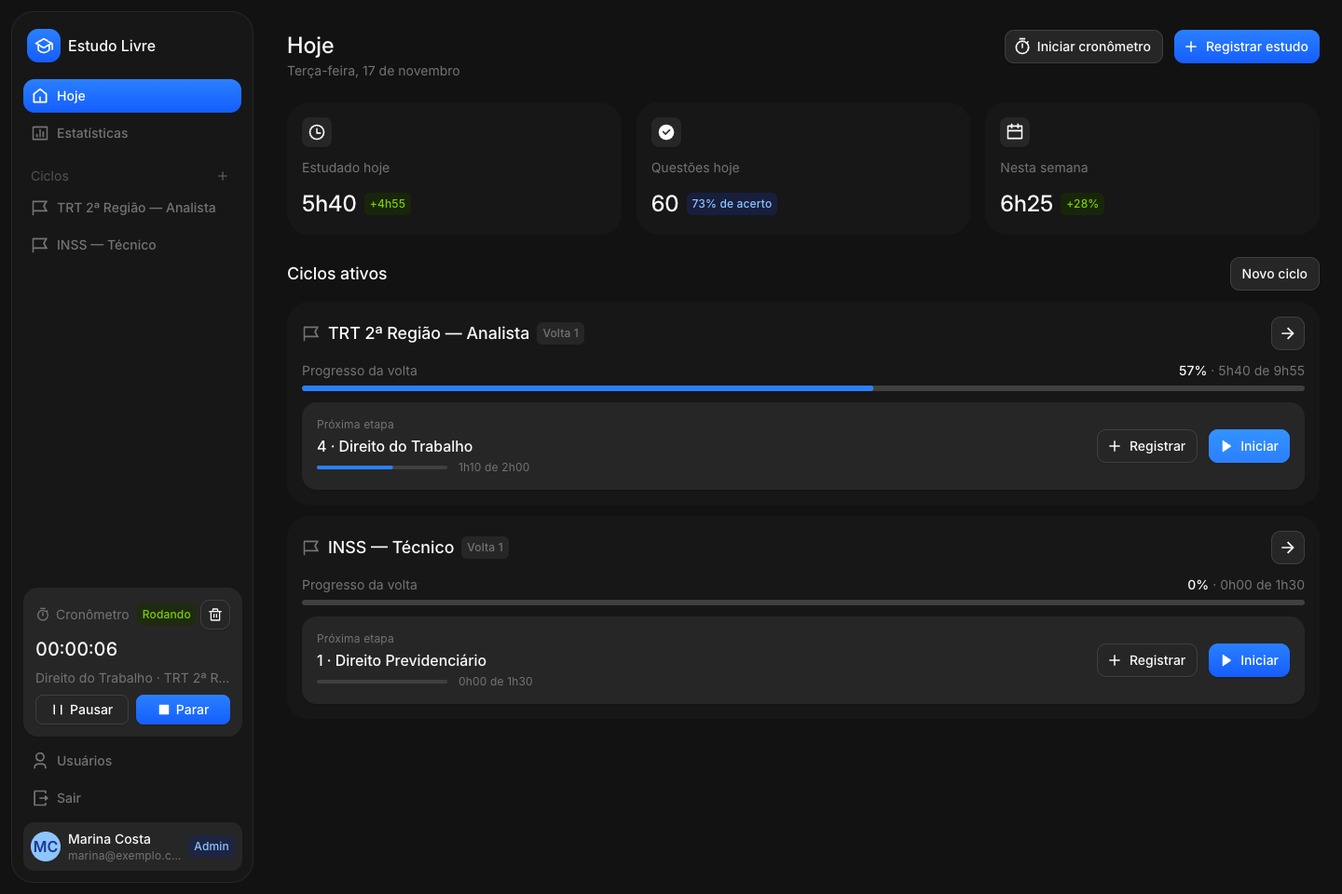
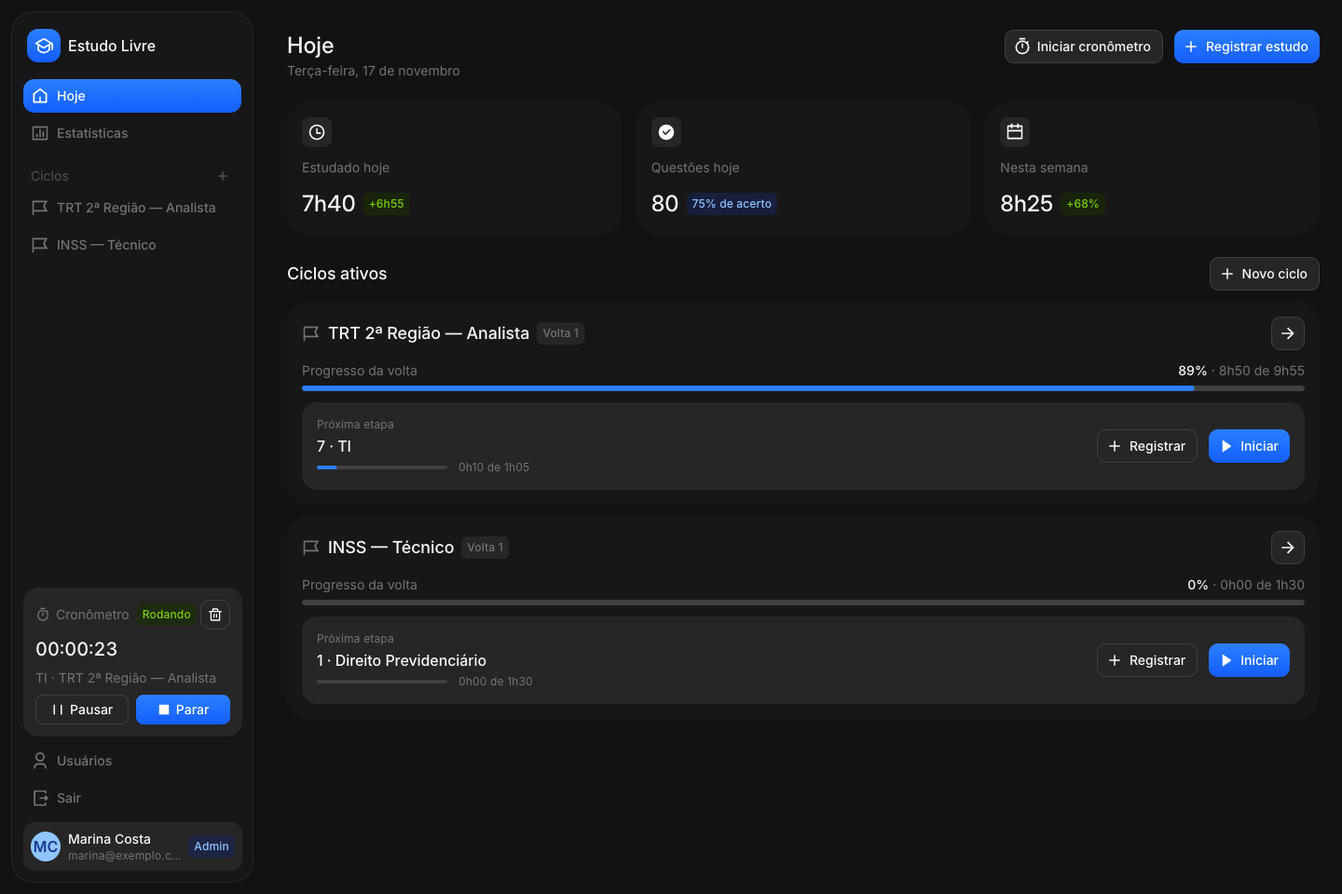
fix(interface): arredondamento simétrico, progresso do Ciclo no caso de uso e ajustes das telas

diff --git a/src/casos-de-uso/ciclos.ts b/src/casos-de-uso/ciclos.ts
@@ -1,6 +1,7 @@
 import { and, asc, eq, isNull, max, sql } from "drizzle-orm";
 import type { Db, Tx } from "@/db";
 import { ciclo, etapa, materia, registroDeEstudo, volta } from "@/db/schema";
+import { concluida } from "@/dominio";
 import { progressoDosCiclos, type Executor, type MateriaComProgresso } from "./progresso";
 import { NaoEncontradoError, ValidacaoError } from "./erros";
 import type { Usuario } from "./usuario";
@@ -21,6 +22,10 @@ export type CicloDetalhe = {
   feitoMinutos: number;
   /** Horas extras da Volta atual, somadas de todas as Matérias. */
   extraMinutos: number;
+  /** Fração da carga cumprida na Volta atual, de 0 a 100. */
+  percentual: number;
+  /** A Próxima etapa: a primeira, na ordem do ciclo, que ainda não chegou a 100%. */
+  proximaEtapaId: string | null;
 };
 
 const CARGA_MAXIMA_MINUTOS = 10_000 * 60;
@@ -109,15 +114,19 @@ export async function obterCiclo(db: Db, usuario: Usuario, cicloId: string): Pro
       const posicaoDe = new Map(posicoes.map((e) => [e.id, e.posicao]));
       const progresso = (await progressoDosCiclos(tx, eq(ciclo.id, cicloId))).get(cicloId) ?? { etapas: [], materias: [] };
       const [aberta] = await tx.select({ numero: volta.numero, inicio: volta.inicio }).from(volta).where(and(eq(volta.cicloId, cicloId), isNull(volta.fim)));
+      const carga = progresso.etapas.reduce((soma, e) => soma + e.cargaMinutos, 0);
+      const feito = progresso.etapas.reduce((soma, e) => soma + e.feitoMinutos, 0);
       return {
         id,
         nome,
         etapas: progresso.etapas.map((e) => ({ ...e, posicao: posicaoDe.get(e.id)! })),
         materias: progresso.materias,
         volta: aberta,
-        cargaMinutos: progresso.etapas.reduce((soma, e) => soma + e.cargaMinutos, 0),
-        feitoMinutos: progresso.etapas.reduce((soma, e) => soma + e.feitoMinutos, 0),
+        cargaMinutos: carga,
+        feitoMinutos: feito,
         extraMinutos: progresso.materias.reduce((soma, m) => soma + m.extraMinutos, 0),
+        percentual: carga ? Math.round((feito / carga) * 100) : 0,
+        proximaEtapaId: progresso.etapas.find((e) => !concluida(e))?.id ?? null,
       };
     },
     { isolationLevel: "repeatable read", accessMode: "read only" },

diff --git a/src/app/(app)/ciclos/[id]/page.tsx b/src/app/(app)/ciclos/[id]/page.tsx
@@ -18,10 +18,9 @@ export default async function PaginaCiclo({ params }: { params: Promise<{ id: st
     throw erro;
   });
   const { etapas, materias, volta } = ciclo;
-  const percentual = ciclo.cargaMinutos ? Math.round((ciclo.feitoMinutos / ciclo.cargaMinutos) * 100) : 0;
+  const { percentual } = ciclo;
   const extraDaMateria = new Map(materias.map((m) => [m.id, m.extraMinutos]));
   const itens = etapas.map((e) => ({ id: e.id, nome: e.nome, cargaMinutos: e.cargaMinutos, feitoMinutos: e.feitoMinutos, extraMinutos: extraDaMateria.get(e.materiaId) ?? 0 }));
-  const proxima = etapas.find((e) => !concluida(e));
 
   return (
     <section aria-labelledby="h-ciclo" className="grid gap-5">
@@ -65,7 +64,7 @@ export default async function PaginaCiclo({ params }: { params: Promise<{ id: st
       </div>
 
       <div className="grid items-start gap-5 lg:grid-cols-[minmax(0,1fr)_320px]">
-        <ListaEtapas cicloId={id} etapas={itens} proximaId={proxima?.id} />
+        <ListaEtapas cicloId={id} etapas={itens} proximaId={ciclo.proximaEtapaId ?? undefined} />
         {materias.length > 0 && (
           <aside aria-label="Matérias" className="grid gap-3 rounded-3xl bg-background-secondary-default p-4">
             <h2 className="text-title-3-medium text-text-primary">Matérias</h2>
@@ -75,7 +74,7 @@ export default async function PaginaCiclo({ params }: { params: Promise<{ id: st
                   <div className="grid">
                     <span className="text-body-medium text-text-primary">{m.nome}</span>
                     <span className="text-caption-1-regular text-text-secondary">
-                      {quantidade(etapas.filter((e) => e.materiaId === m.id).length, "etapa", "etapas")} · {tempoHM(m.cargaMinutos)}
+                      {quantidade(m.etapas, "etapa", "etapas")} · {tempoHM(m.cargaMinutos)}
                     </span>
                   </div>
                   <ProgressTrack percentage={(m.feitoMinutos / m.cargaMinutos) * 100} size="sm" className={concluida(m) ? "text-chart-2" : "text-accent-500"} />

diff --git a/src/casos-de-uso/progresso.ts b/src/casos-de-uso/progresso.ts
@@ -8,7 +8,7 @@ export type Executor = Db | Tx;
 export type EtapaComProgresso = { id: string; materiaId: string; nome: string; cargaMinutos: number; feitoMinutos: number };
 
 /** A Matéria soma as Etapas dela; `extraMinutos` é o que passou da carga total na Volta atual. */
-export type MateriaComProgresso = { id: string; nome: string; cargaMinutos: number; feitoMinutos: number; extraMinutos: number };
+export type MateriaComProgresso = { id: string; nome: string; cargaMinutos: number; feitoMinutos: number; extraMinutos: number; etapas: number };
 
 export type ProgressoDoCiclo = { etapas: EtapaComProgresso[]; materias: MateriaComProgresso[] };
 
@@ -51,7 +51,8 @@ export async function progressoDosCiclos(db: Executor, filtro: SQL | undefined):
     );
     const materias = new Map<string, MateriaComProgresso>();
     for (const e of preenchidas) {
-      const atual = materias.get(e.materiaId) ?? { id: e.materiaId, nome: e.nome, cargaMinutos: 0, feitoMinutos: 0, extraMinutos: extraPorMateria.get(e.materiaId) ?? 0 };
+      const atual = materias.get(e.materiaId) ?? { id: e.materiaId, nome: e.nome, cargaMinutos: 0, feitoMinutos: 0, extraMinutos: extraPorMateria.get(e.materiaId) ?? 0, etapas: 0 };
+      atual.etapas += 1;
       atual.cargaMinutos += e.cargaMinutos;
       atual.feitoMinutos += e.feitoMinutos;
       materias.set(e.materiaId, atual);

diff --git a/src/app/(app)/page.tsx b/src/app/(app)/page.tsx
@@ -1,4 +1,4 @@
-import { RiCalendarLine, RiCheckboxCircleFill, RiTimeLine } from "@remixicon/react";
+import { RiAddLine, RiCalendarLine, RiCheckboxCircleFill, RiTimeLine } from "@remixicon/react";
 import { AcoesDaHoje } from "@/app/acoes-da-hoje";
 import { CartaoDeIndicador } from "@/app/cartao-de-indicador";
 import { CartaoDoCiclo } from "@/app/cartao-do-ciclo";
@@ -77,7 +77,7 @@ export default async function Hoje() {
                 <span className="max-lg:hidden">Ciclos ativos</span>
               </h2>
               <span className="text-body-regular text-text-secondary lg:hidden">{ciclos.length === 1 ? "1 ciclo" : `${ciclos.length} ciclos`}</span>
-              <ButtonLink href="/ciclos/novo" variant="secondary" className="max-lg:hidden">
+              <ButtonLink href="/ciclos/novo" variant="secondary" leadingIcon={RiAddLine} className="max-lg:hidden">
                 Novo ciclo
               </ButtonLink>
             </div>

diff --git a/src/dominio.ts b/src/dominio.ts
@@ -39,9 +39,11 @@ export function preencherEtapas<E extends { materiaId: string; cargaMinutos: num
   return { etapas: preenchidas, extraPorMateria: restante };
 }
 
-/** Variação percentual arredondada contra o período anterior; sem período anterior (0) não há variação. */
+/** Variação percentual arredondada (meio ponto se afasta do zero) contra o período anterior; sem período anterior (0) não há variação. */
 export function variacaoPercentual(atual: number, anterior: number): number | null {
-  return anterior > 0 ? Math.round(((atual - anterior) / anterior) * 100) : null;
+  if (anterior <= 0) return null;
+  const percentual = ((atual - anterior) / anterior) * 100;
+  return Math.sign(percentual) * Math.round(Math.abs(percentual)); // meio ponto se afasta do zero nos dois sinais
 }
 
 /** Acerto arredondado de 0 a 100; sem questões não há acerto. */

diff --git a/tests/volta-do-ciclo.test.ts b/tests/volta-do-ciclo.test.ts
@@ -23,6 +23,9 @@ describe("progresso na tela do Ciclo", () => {
     expect(ciclo.volta).toEqual({ numero: 1, inicio: null });
     expect([ciclo.cargaMinutos, ciclo.feitoMinutos, ciclo.extraMinutos]).toEqual([240, 90, 0]);
     expect(ciclo.materias.map((m) => [m.nome, m.cargaMinutos, m.feitoMinutos])).toEqual([["Português", 120, 90], ["Direito", 120, 0]]);
+    expect(ciclo.materias.map((m) => [m.nome, m.etapas])).toEqual([["Português", 2], ["Direito", 1]]);
+    expect([ciclo.etapas.length, ciclo.materias.length, ciclo.cargaMinutos - ciclo.feitoMinutos, ciclo.percentual]).toEqual([3, 2, 150, 38]); // 90/240 = 37,5%
+    expect(ciclo.proximaEtapaId).toBe(ciclo.etapas[1].id); // Português 1 está a 100%, Direito é a primeira incompleta
   });
 
   it("depois de fechar a Volta, mostra a Volta 2 com o instante em que abriu e soma as horas extras", async () => {

diff --git a/src/app/formulario-de-registro.tsx b/src/app/formulario-de-registro.tsx
@@ -124,7 +124,7 @@ function Formulario({
           <span className="text-body-medium text-text-primary" id="rotulo-tipo">
             Tipo de estudo
           </span>
-          <SegmentedControl aria-labelledby="rotulo-tipo" selectedKeys={[tipo]} onSelectionChange={(chaves) => setTipo([...chaves][0] as TipoDeEstudo)} className="max-w-full overflow-x-auto">
+          <SegmentedControl aria-labelledby="rotulo-tipo" selectedKeys={[tipo]} onSelectionChange={(chaves) => setTipo([...chaves][0] as TipoDeEstudo)} className="w-full [&>*]:flex-1">
             {TIPOS_DE_ESTUDO.map((t) => (
               <SegmentedControlItem key={t} id={t}>
                 {t}

diff --git a/tests/estatisticas.test.ts b/tests/estatisticas.test.ts
@@ -63,6 +63,8 @@ describe("estatísticas", () => {
     // 23 acertos em 40 questões = 57,5%, arredondado para 58%. Matérias sem questões ficam de fora.
     expect(acertoPorMateria.map((m) => [m.nome, m.questoes, m.acertos, m.percentual])).toEqual([["Português", 40, 23, 58]]);
     expect(totalQuestoes).toBe(40);
+    // A Matéria sem questões continua em "Horas por matéria".
+    expect((await obterEstatisticas(db, ana)).horasPorMateria.map((m) => m.nome)).toContain("Direito");
   });
 
   describe("horas por semana", () => {

diff --git a/src/app/formato.ts b/src/app/formato.ts
@@ -21,10 +21,10 @@ export function quantidade(n: number, singular: string, plural: string) {
   return `${n} ${n === 1 ? singular : plural}`;
 }
 
-/** "2026-09-28" -> "28/9", como no rótulo das semanas. */
+/** "2026-09-28" -> "28/09", como no rótulo das semanas. */
 export function diaMes(dia: string) {
   const [, mes, diaDoMes] = dia.split("-");
-  return `${Number(diaDoMes)}/${Number(mes)}`;
+  return `${diaDoMes}/${mes}`;
 }
 
 /** "+12%" ou "−50%" (sinal de menos tipográfico). */

diff --git a/tests/formato.test.ts b/tests/formato.test.ts
@@ -8,6 +8,9 @@ describe("variação e acerto", () => {
     expect(variacaoPercentual(300, 600)).toBe(-50);
     expect(variacaoPercentual(0, 120)).toBe(-100);
     expect(variacaoPercentual(120, 0)).toBeNull();
+    // meio ponto se afasta do zero nos dois sinais
+    expect(variacaoPercentual(90, 80)).toBe(13);
+    expect(variacaoPercentual(70, 80)).toBe(-13);
   });
 
   it("acerto arredondado; sem questões, nenhum", () => {

diff --git a/.specs/features/interface-boardui/verification.md b/.specs/features/interface-boardui/verification.md
@@ -1,0 +1,79 @@
+# Interface no BoardUI verification
+
+**Verdict**: FAIL
+**Proofs**: `proofs.md` at 30a75ec (HEAD is 85ec926; 53 pass, 7 fail = the 7 browser proofs C7 C15 C16 C25 C36 C42 C48 "not judged", awaiting the screens sub-agent)
+**Verifier**: independent sub-agent (author != verifier)
+
+## Checks
+
+| Check | Test | Holds |
+| --- | --- | --- |
+| C1 | `! grep` on src/app + src/casos-de-uso (grep proof) | partial - grep catches old token/class use in those two dirs only (src/components, src/styles not scanned; my wider grep of `src` was clean) and does not check Inter at all; layout.tsx loads Inter, nothing asserts it renders |
+| C2 | walk proof (no test) - walk proof: only needs the single `**Walked:**` line in checks.md, so it would NOT catch a false claim | no mechanical test - unproven by a mechanical test; judge only by the walk |
+| C3 | walk proof (no test) - walk proof: only needs the single `**Walked:**` line in checks.md, so it would NOT catch a false claim | no mechanical test - unproven mechanically; the inline `<head>` script is a view-source claim a walk cannot falsify |
+| C4 | walk proof (no test) - walk proof: only needs the single `**Walked:**` line in checks.md, so it would NOT catch a false claim | no mechanical test - unproven mechanically |
+| C5 | walk proof (no test) - walk proof: only needs the single `**Walked:**` line in checks.md, so it would NOT catch a false claim | no mechanical test - unproven mechanically |
+| C6 | walk proof (no test) - walk proof: only needs the single `**Walked:**` line in checks.md, so it would NOT catch a false claim | no mechanical test - unproven mechanically |
+| C7 | browser proof - browser proof: a picture saved and judged by the screens sub-agent (`screens.md`, not yet judged at proofs HEAD); would catch a visual false claim only once judged | no mechanical test - deferred to screens |
+| C8 | walk proof (no test) - walk proof: only needs the single `**Walked:**` line in checks.md, so it would NOT catch a false claim | no mechanical test - unproven mechanically |
+| C9 | walk proof (no test) - walk proof: only needs the single `**Walked:**` line in checks.md, so it would NOT catch a false claim | no mechanical test - unproven mechanically |
+| C10 | walk proof (no test) - walk proof: only needs the single `**Walked:**` line in checks.md, so it would NOT catch a false claim | no mechanical test - unproven mechanically |
+| C11 | walk proof (no test) - walk proof: only needs the single `**Walked:**` line in checks.md, so it would NOT catch a false claim | no mechanical test - unproven mechanically |
+| C12 | walk proof (no test) - walk proof: only needs the single `**Walked:**` line in checks.md, so it would NOT catch a false claim | no mechanical test - unproven mechanically |
+| C13 | walk proof (no test) - walk proof: only needs the single `**Walked:**` line in checks.md, so it would NOT catch a false claim | no mechanical test - unproven mechanically |
+| C14 | walk proof (no test) - walk proof: only needs the single `**Walked:**` line in checks.md, so it would NOT catch a false claim | no mechanical test - unproven mechanically |
+| C15 | browser proof - browser proof: a picture saved and judged by the screens sub-agent (`screens.md`, not yet judged at proofs HEAD); would catch a visual false claim only once judged | no mechanical test - deferred to screens |
+| C16 | browser proof - browser proof: a picture saved and judged by the screens sub-agent (`screens.md`, not yet judged at proofs HEAD); would catch a visual false claim only once judged | no mechanical test - deferred to screens |
+| C17 | `tests/indicadores.test.ts` `Estudado hoje soma o dia em Brasília e dá a diferença contra ontem`, `um registro das 23h50 de ontem em Brasília não conta hoje`, `soma todos os Ciclos...` (+ `tests/formato.test.ts` `rótulos de chip`) | yes - asserts 70/+25, the 23h50 boundary, zero/null; my 00:10-today, negative diff (-25) and sum cases also held |
+| C18 | `tests/indicadores.test.ts` `Questões hoje soma as questões e arredonda o acerto` (+ zero case in `soma todos os Ciclos...`) | yes - 20/16 -> 80, 3/2 -> 67, zero -> 0/null; my 10/8+30/15 -> 58 and 5/0 -> 0 held. The string `<n>% de acerto` is built in page.tsx and untested |
+| C19 | `tests/indicadores.test.ts` `Nesta semana compara com a semana anterior inteira...`, `Nesta semana cai 50%...` | yes - Sunday boundary, two-weeks-back excluded, +12, -50, null; my Monday-00:00 inclusion (-20) held. Half-point rounding unprobed (see finding 1) |
+| C20 | walk proof (no test) - walk proof: only needs the single `**Walked:**` line in checks.md, so it would NOT catch a false claim | no mechanical test - unproven mechanically |
+| C21 | walk proof (no test) - walk proof: only needs the single `**Walked:**` line in checks.md, so it would NOT catch a false claim | no mechanical test - unproven mechanically |
+| C22 | walk proof (no test) - walk proof: only needs the single `**Walked:**` line in checks.md, so it would NOT catch a false claim | no mechanical test - unproven mechanically |
+| C23 | walk proof (no test) - walk proof: only needs the single `**Walked:**` line in checks.md, so it would NOT catch a false claim | no mechanical test - unproven mechanically |
+| C24 | walk proof (no test) - walk proof: only needs the single `**Walked:**` line in checks.md, so it would NOT catch a false claim | no mechanical test - unproven mechanically |
+| C25 | browser proof - browser proof: a picture saved and judged by the screens sub-agent (`screens.md`, not yet judged at proofs HEAD); would catch a visual false claim only once judged | no mechanical test - deferred to screens |
+| C26 | `tests/volta-do-ciclo.test.ts` `cada Etapa traz o feito...`, `depois de fechar a Volta...`; `tests/formato.test.ts` `Volta 3 aberta em 2/11...` | partial - Volta line and extraMinutos are asserted; the header string "<n> etapas · <m> matérias · <carga>", "Faltam <tempo>" and the percent are built in `ciclos/[id]/page.tsx` with no test |
+| C27 | `tests/formato.test.ts` `uma Situação por Etapa` | partial - all five Situações asserted on the function; which Etapa is the Próxima (`!concluida`, page.tsx) and the highlight are untested. My 59/60 -> Em andamento (Próxima etapa when proxima) and 61/60 -> Concluída held |
+| C28 | walk proof (no test) - walk proof: only needs the single `**Walked:**` line in checks.md, so it would NOT catch a false claim | no mechanical test - unproven mechanically |
+| C29 | walk proof (no test) - walk proof: only needs the single `**Walked:**` line in checks.md, so it would NOT catch a false claim | no mechanical test - unproven mechanically |
+| C30 | walk proof (no test) - walk proof: only needs the single `**Walked:**` line in checks.md, so it would NOT catch a false claim | no mechanical test - unproven mechanically |
+| C31 | walk proof (no test) - walk proof: only needs the single `**Walked:**` line in checks.md, so it would NOT catch a false claim | no mechanical test - unproven mechanically |
+| C32 | `tests/volta-do-ciclo.test.ts` `cada Etapa traz o feito...` | no - asserts each Matéria's carga and feito only; "<n> etapa(s)" is computed in the UI and the < 1024px reorder is CSS, neither asserted |
+| C33 | walk proof (no test) - walk proof: only needs the single `**Walked:**` line in checks.md, so it would NOT catch a false claim | no mechanical test - unproven mechanically |
+| C34 | `tests/ciclos.test.ts` `um Usuário não vê nem altera Ciclos e Etapas de outro` | partial - asserts NaoEncontradoError from the use case; the `notFound()` mapping in page.tsx is untested (code reads correct) |
+| C35 | walk proof (no test) - walk proof: only needs the single `**Walked:**` line in checks.md, so it would NOT catch a false claim | no mechanical test - unproven mechanically |
+| C36 | browser proof - browser proof: a picture saved and judged by the screens sub-agent (`screens.md`, not yet judged at proofs HEAD); would catch a visual false claim only once judged | no mechanical test - deferred to screens |
+| C37 | walk proof (no test) - walk proof: only needs the single `**Walked:**` line in checks.md, so it would NOT catch a false claim | no mechanical test - unproven mechanically |
+| C38 | walk proof (no test) - walk proof: only needs the single `**Walked:**` line in checks.md, so it would NOT catch a false claim | no mechanical test - unproven mechanically; the 80% / dash rule is client code with no unit test (`percentualDeAcerto` is tested in `formato.test.ts` but the proof does not name it) |
+| C39 | walk proof (no test) - walk proof: only needs the single `**Walked:**` line in checks.md, so it would NOT catch a false claim | no mechanical test - unproven mechanically |
+| C40 | walk proof (no test) - walk proof: only needs the single `**Walked:**` line in checks.md, so it would NOT catch a false claim | no mechanical test - unproven mechanically |
+| C41 | walk proof (no test) - walk proof: only needs the single `**Walked:**` line in checks.md, so it would NOT catch a false claim | no mechanical test - unproven mechanically |
+| C42 | browser proof - browser proof: a picture saved and judged by the screens sub-agent (`screens.md`, not yet judged at proofs HEAD); would catch a visual false claim only once judged | no mechanical test - deferred to screens |
+| C43 | walk proof (no test) - walk proof: only needs the single `**Walked:**` line in checks.md, so it would NOT catch a false claim | no mechanical test - unproven mechanically; existing `tests/estatisticas.test.ts` filter test covers the data side but is not the named proof |
+| C44 | `tests/estatisticas.test.ts` `variação semanal > compara a semana atual com a anterior` and `semana atual zerada cai 100%...`; `tests/formato.test.ts` `variação arredondada...` | yes - +12, -100, null asserted; my Ciclo-filtered and Monday-boundary cases (-20) held. Half-point rounding unprobed (finding 1) |
+| C45 | walk proof (no test) - walk proof: only needs the single `**Walked:**` line in checks.md, so it would NOT catch a false claim | no mechanical test - unproven mechanically |
+| C46 | `tests/estatisticas.test.ts` `calcula o % de acerto por Matéria só com os registros que têm questões` | partial - asserts Direito (no questões) is absent from acertoPorMateria; its presence in horasPorMateria is asserted by other tests, not this one |
+| C47 | walk proof (no test) - walk proof: only needs the single `**Walked:**` line in checks.md, so it would NOT catch a false claim | no mechanical test - unproven mechanically |
+| C48 | browser proof - browser proof: a picture saved and judged by the screens sub-agent (`screens.md`, not yet judged at proofs HEAD); would catch a visual false claim only once judged | no mechanical test - deferred to screens |
+| C49 | walk proof (no test) - walk proof: only needs the single `**Walked:**` line in checks.md, so it would NOT catch a false claim | no mechanical test - unproven mechanically |
+| C50 | walk proof (no test) - walk proof: only needs the single `**Walked:**` line in checks.md, so it would NOT catch a false claim | no mechanical test - unproven mechanically |
+| C51 | walk proof (no test) - walk proof: only needs the single `**Walked:**` line in checks.md, so it would NOT catch a false claim | no mechanical test - unproven mechanically |
+| C52 | `test ! -e prototype` (shell proof) | yes - fails if the directory exists |
+| C53 | `! grep -Ei "geist|disco do ciclo" docs/design-system.md` (grep proof) | partial - catches the two banned words only; the required content (tokens with both modes, type scale, components, 1024px) is not checked, so an empty doc would pass |
+| C54 | `grep -q ig7Pq2uPxPWjeWuCKmTuBW AGENTS.md && grep -q "Figma vence" AGENTS.md` (grep proof) | yes - both literals required; stale-rule leftovers (old prototype pointer) not checked |
+
+## Findings
+
+| Finding | Evidence | Fix | Closed |
+| --- | --- | --- | --- |
+| Half-point variation rounds asymmetrically: 70 vs 80 min gives "−12%" (−12.5) while +12.5 would give "+13%"; no test sits on a .5 | own throwaway test at HEAD: `variacaoPercentual(70,80)` -> -12; `Math.round` in `src/dominio.ts` rounds toward +inf. Affects AC19 and AC44 (Hoje and Estatísticas) | decide the rule (round half away from zero) and add a test on a .5 in both signs; or log -12 as intended | |
+| C32's test does not hold its criterion: asserts carga/feito only | `tests/volta-do-ciclo.test.ts` first test; "<n> etapa(s)" counted in the UI, reorder is CSS | add the etapa count per Matéria to the use case and assert it, or give C32 a walk/browser proof | |
+| C26 header, "Faltam" and percent strings are built in the page and no proof reaches them | `src/app/(app)/ciclos/[id]/page.tsx`; C26's proofs only name Volta line and `cada Etapa traz o feito` | move the header/faltam/percent formatting into `formato.ts` and test it, or add a walk | |
+| C27: the Próxima etapa choice and highlight are untested | `situacaoDaEtapa` takes `proxima` as given; page.tsx computes it with `etapas.find(e => !concluida(e))` | cover it in a unit or walk that checks the highlighted row | |
+| C1 proof does not check Inter and scans only src/app + src/casos-de-uso | grep in checks.md; `src/components` and `src/styles` unscanned (my wider grep was clean) | grep `src` and add a check that layout sets the Inter variable on body | |
+| C53 grep passes an empty or incomplete design doc | only bans "geist" and "disco do ciclo" | add greps for the Claro suave hex `#ebebe8`, `1024px`, Sidebar, StatCard, EtapaRow | |
+| C38 walk proof leaves the 80% / "—" rule with no test | `percentualDeAcerto` tested in `formato.test.ts` but the Acerto field's own client logic is only walked | name the `percentualDeAcerto` test in C38's proof, if the field calls it | |
+| All walk proofs (C2-C6, C8-C14, C20-C24, C28-C31, C33, C35, C37-C41, C43, C45, C47, C49-C51) pass on one `**Walked:**` line | `check_proofs.py` accepts any walk when that line exists; none of these can fail | accepted by the method for UI; screens sub-agent and `screens.md` are the real check for the browser proofs (all 7 "not judged" at proofs HEAD) | |
+
+Own examples (throwaway, deleted): AC17 (00:10 today counts, today 75 vs yesterday 100 -> -25 label "−25min"), AC18 (10/8 + 30/15 + yesterday's 5/0 -> 40 questões, 58%), AC19 (Monday 00:00 counts this week; 80 vs 100 -> -20), AC44 (same value with a Ciclo filter -> -20), AC26 ("1 de dezembro · há 9 dias", 23:30 yesterday vs 00:10 today -> "há 1 dia", same day -> "hoje"), AC27 (59/60 -> Em andamento / Próxima etapa, 61/60 -> Concluída). Only the half-point rounding in finding 1 is questionable; nothing broke.

diff --git a/.specs/features/interface-boardui/screens.md b/.specs/features/interface-boardui/screens.md
@@ -1,0 +1,123 @@
+# Interface no BoardUI screens
+
+**Verifier**: independent sub-agent (author != verifier)
+**Round**: 1
+**HEAD**: 85ec926
+
+Pictures were taken from the code at 30a75ec; the later commit only changed `.specs` files. Data differences (dates, names, numbers, Volta, which Matéria has horas extras, Rodando/Pausado, selected tab) are not copy errors. Rows removed by `## Differences from the source` are marked `same`.
+
+| Screen | Compared with | Verdict | Finding |
+| --- | --- | --- | --- |
+| `captures/hoje-claro-suave.running.png` | `captures/hoje-claro-suave.png` | diverges | 2 rows differ |
+| `captures/hoje-escuro.running.png` | `captures/hoje-escuro.png` | diverges | 2 rows differ |
+| `captures/pwa-hoje.running.png` | `captures/pwa-hoje.png` | diverges | 1 row differs |
+| `captures/ciclo.running.png` | `captures/ciclo.png` | diverges | 1 row differs |
+| `captures/registrar-estudo.running.png` | `captures/registrar-estudo.png` | diverges | 4 rows differ |
+| `captures/estatisticas.running.png` | `captures/estatisticas.png` | diverges | 3 rows differ |
+| `captures/entrar.running.png` | `captures/entrar.png` | matches | 0 rows differ |
+
+### `captures/hoje-claro-suave.running.png`
+
+| Element | Result | Picture draws |
+| --- | --- | --- |
+| Sidebar: logo + "Estudo Livre", Hoje selected (filled blue), section "Ciclos" with "+", one item per Ciclo (Revisões, Registros, Arquivados removed by AD-001) | same | Ciclo names are the full names, "TRT 2ª Região — Analista" |
+| Sidebar: Cronômetro card with "Cronômetro", chip "Rodando", time, "<Matéria> · <Ciclo>", "Pausar" and "Parar" | same | description truncated by ellipsis (data) |
+| Sidebar: Cronômetro card has no other control | differs | a small trash icon button beside the "Rodando" chip, not in the capture |
+| Sidebar: Usuários, Sair, user card with avatar MC, name, e-mail, "Admin" chip | same | avatar a little larger (note) |
+| Header: "Hoje" + date line; "Iniciar cronômetro" outlined and "Registrar estudo" filled with + on the right | same | |
+| Indicator cards: icon tile, label, value, chip - Estudado hoje (+ chip), Questões hoje (blue chip "% de acerto"), Nesta semana (+ chip); "Revisões de hoje" removed by AD-003, cards fill the width | same | three cards across the full width |
+| "Ciclos ativos" heading and "Novo ciclo" button with a + icon, at the right of the heading | differs | "Novo ciclo" is text only, no + icon, and sits at the far right of the full-width row |
+| Ciclo card: flag, name, "Volta N" chip, arrow button at right | same | arrow button is white with a dark arrow; the capture's is a quieter ghost button (note) |
+| Ciclo card: "Progresso da volta", bar, "<p>% · <feito> de <carga>" | same | |
+| Próxima etapa block: label, "<n> · Matéria" (+ "+ extra" chip when the Matéria has extras), own bar + "1h10 de 2h00", "Registrar" outlined and "Iniciar" filled with play icon | same | no extra chip on these Etapas (data) |
+| "Revisões de hoje" column and info note | same | removed by AD-003; Ciclos ativos takes the full width |
+| Page background and panel tones (Claro suave) | same | |
+
+### `captures/hoje-escuro.running.png`
+
+| Element | Result | Picture draws |
+| --- | --- | --- |
+| Dark theme state of Hoje: dark page, dark panels, same tokens as the light capture | same | |
+| Sidebar: logo, Hoje selected, "Ciclos" with "+", Ciclo items (Revisões, Registros, Arquivados removed) | same | full Ciclo names |
+| Sidebar: Cronômetro card, time, description, "Rodando" chip (green on dark), "Pausar" / "Parar" | same | |
+| Sidebar: Cronômetro card has no other control | differs | a trash icon button beside the "Rodando" chip, not in the capture |
+| Sidebar: Usuários, Sair, user card with "Admin" chip | same | |
+| Header: title, date, "Iniciar cronômetro", "Registrar estudo" | same | |
+| Indicator cards: Estudado hoje, Questões hoje, Nesta semana with chips (Revisões removed) | same | |
+| "Ciclos ativos" + "Novo ciclo" button with + icon | differs | no + icon on "Novo ciclo" |
+| Ciclo cards: name, Volta chip, arrow button, progress bar and numbers | same | |
+| Próxima etapa block with bar, "Registrar", "Iniciar" | same | |
+| "Revisões de hoje" column | same | removed by AD-003 |
+
+### `captures/pwa-hoje.running.png`
+
+| Element | Result | Picture draws |
+| --- | --- | --- |
+| Top bar: logo, "Hoje", avatar MC at top right | same | avatar larger (note); the capture's phone status bar is device frame, not app |
+| Date line under the title | same | |
+| Large Cronômetro card: label, "Rodando" chip, big time, "<Matéria> · <Ciclo>", "Pausar" and "Parar e registrar" | same | |
+| Cronômetro card has no other control | differs | a trash icon button beside the "Rodando" chip |
+| Indicators Hoje, Questões, Semana in three small cards (AD-003 replaces Revisões/Acerto) | same | |
+| "Próximas etapas" + "N ciclos" | same | |
+| Ciclo cards: flag, name, "Volta N · p%", bar, Etapa row with name, mini bar, "1h10 de 2h00", blue play button | same | |
+| Bottom tab bar: Hoje, central raised "+", Estatísticas (Revisões and Registros removed) | same | |
+
+### `captures/ciclo.running.png`
+
+| Element | Result | Picture draws |
+| --- | --- | --- |
+| Sidebar: Ciclo item selected (filled blue), rest as in Hoje | same | |
+| Sidebar: Cronômetro card without extra controls | differs | a trash icon button beside the "Rodando" chip |
+| Breadcrumb "Ciclos > <name>", title, "Renomear" next to the name (AD-001) | same | |
+| Subtitle "<n> etapas · <m> matérias · <carga> por volta" | same | |
+| Header actions: "Adicionar etapa" filled with + (Reiniciar volta, Arquivar removed) | same | |
+| Tabs and "Faixas de acerto" card, "Tópicos estudados" | same | removed by AD-001 |
+| Volta card: "Volta N", start line ("Primeira volta"), "<p>% · feito de carga", bar, "Faltam", "Horas extras <tempo>" | same | no matéria chip beside "Horas extras" value (note; the plan lists only the time) |
+| Table header: drag, #, Matéria, Carga, Progresso na volta, Situação | same | |
+| EtapaRow: handle, position badge, Matéria, carga, bar with percent, Situação chip, ⋮; Próxima etapa row highlighted | same | chips Concluída / +extra / Próxima etapa / Em andamento / Não iniciada all drawn |
+| Matérias card at the right: "<Matéria>, n etapas · carga" and a progress bar | same | bar runs full width below each Matéria instead of a short bar beside a topics count (note; the count was removed by AD-001) |
+
+### `captures/registrar-estudo.running.png`
+
+| Element | Result | Picture draws |
+| --- | --- | --- |
+| Modal over a dimmed page, title "Registrar estudo", "×" at the right | same | modal narrower (note) |
+| Note "Duração preenchida pelo cronômetro" under the title | same | |
+| Matéria select | same | text drawn greyed, like a placeholder (note) |
+| Conteúdo: single free-text field (Tópico, Conteúdo livre, Sem conteúdo removed by AD-001) | same | |
+| Data field: text field "dd/mm/aaaa · hh:mm" | differs | native browser date input with its calendar glyph, date only, no time |
+| Duração: Horas and Minutos side by side (AD-001) | same | |
+| Tipo de estudo: five equal segments filling the row, selected one a white pill | differs | segments packed to the left at natural width, not filling the row |
+| Questões, Acertos, "Acerto" read-only tile | same | "—" while empty |
+| Nota da revisão, "Sugerida" chip, hint line | same | removed by AD-001 |
+| Anotação textarea | same | shows a native resize handle (note) |
+| Footer: "Cancelar" and "Salvar registro" with check, right-aligned (estimated review removed) | same | no divider above the footer (note) |
+| Background Sidebar: Cronômetro card without extra controls | differs | a trash icon button beside the Pausado chip |
+
+### `captures/estatisticas.running.png`
+
+| Element | Result | Picture draws |
+| --- | --- | --- |
+| Sidebar: Estatísticas selected | same | |
+| Sidebar: Cronômetro card without extra controls | differs | a trash icon button beside the "Rodando" chip |
+| Header: title, subtitle, segmented control at the right ("Todos os ciclos" + one per Ciclo) | same | selected segment differs and Ciclo names are full (data) |
+| Cards: Horas estudadas, Nesta semana with chip, Acerto geral, Questões; no variation on the last three (AD-004) | same | |
+| "Horas por semana" card: "Últimas 8 semanas", big total, chip "vs. semana anterior", 8 bars, last one highlighted, value above each bar, date under each | same | |
+| Week-axis labels | differs | "28/9", "5/10", "9/11" without zero padding; capture draws "22/09", "06/10", "03/11" |
+| "Acerto por matéria" card: Matéria, "n questões", percent, band-coloured bar; header "Questões" | same | card ends at the height of its content, not stretched to match the Horas por semana card (note) |
+| Acerto por matéria labels | differs | "<Matéria> · <Ciclo>" with truncation; capture shows the Matéria name only |
+| "Horas por matéria" card: "<h> no total", stacked bar, legend dots | same | |
+| Horas por matéria legend entries | differs | "<Matéria> · <Ciclo> <tempo>" and zero-hour entries with grey dots; capture legend is "<Matéria> <tempo>" |
+
+### `captures/entrar.running.png`
+
+| Element | Result | Picture draws |
+| --- | --- | --- |
+| Centred card on the page background, blue logo tile on top | same | card is the soft tone of Claro suave, not white (note) |
+| Title "Entrar no Estudo Livre" and subtitle | same | |
+| "E-mail" label and field | same | |
+| "Senha" label and field | same | field drawn focused, longer dots (data/state) |
+| "Esqueci minha senha" link right-aligned | same | absent: allowed when SMTP is not configured (criterion 50) |
+| Filled full-width "Entrar" button | same | |
+| Divider and "Não tem conta? Criar conta" | same | |
+| Footer "Instância self-hosted · seus dados ficam no seu servidor" | same | |
